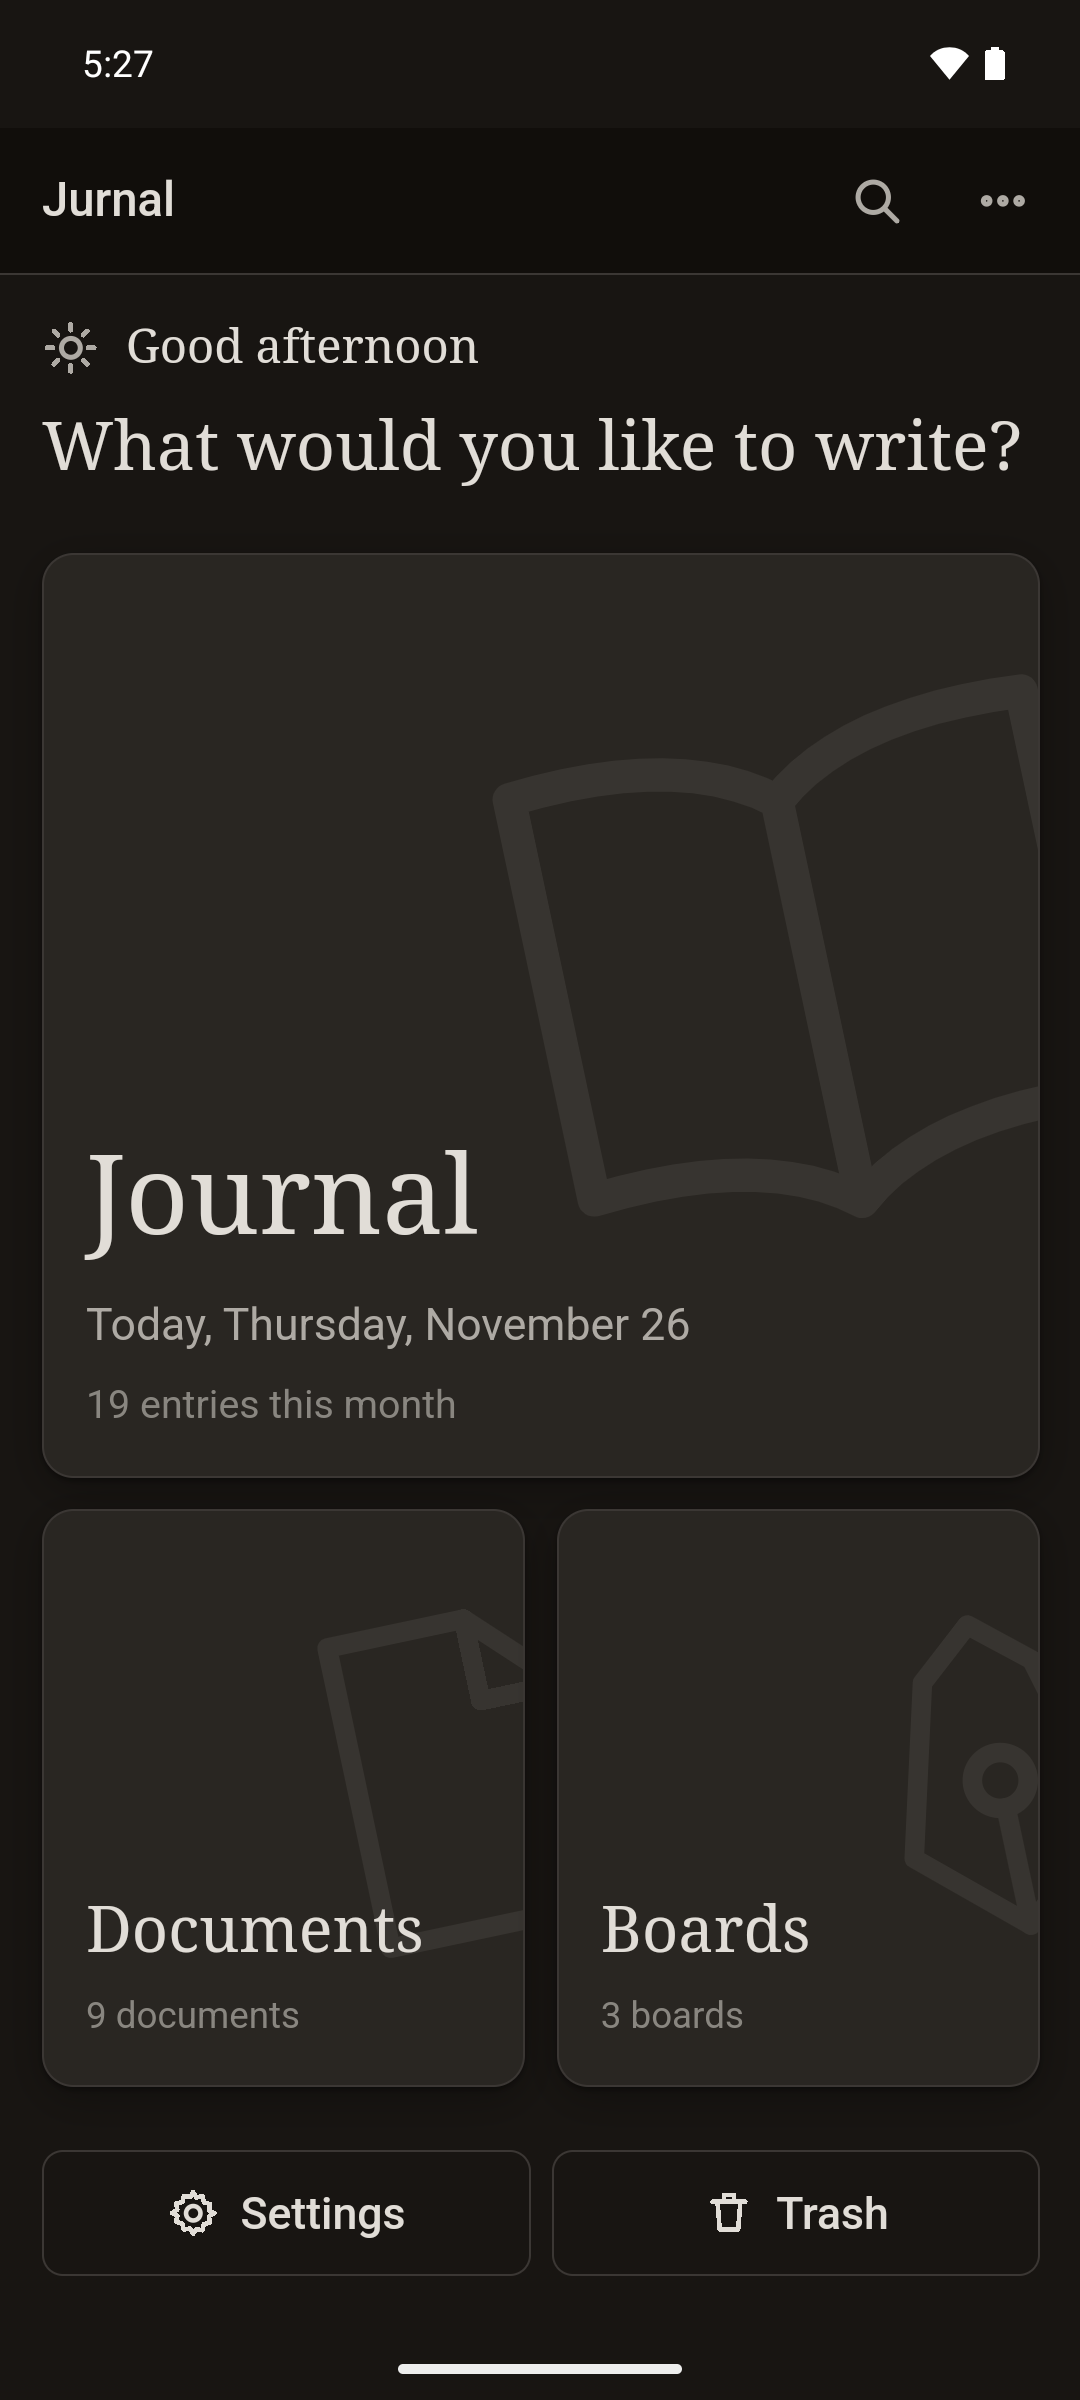
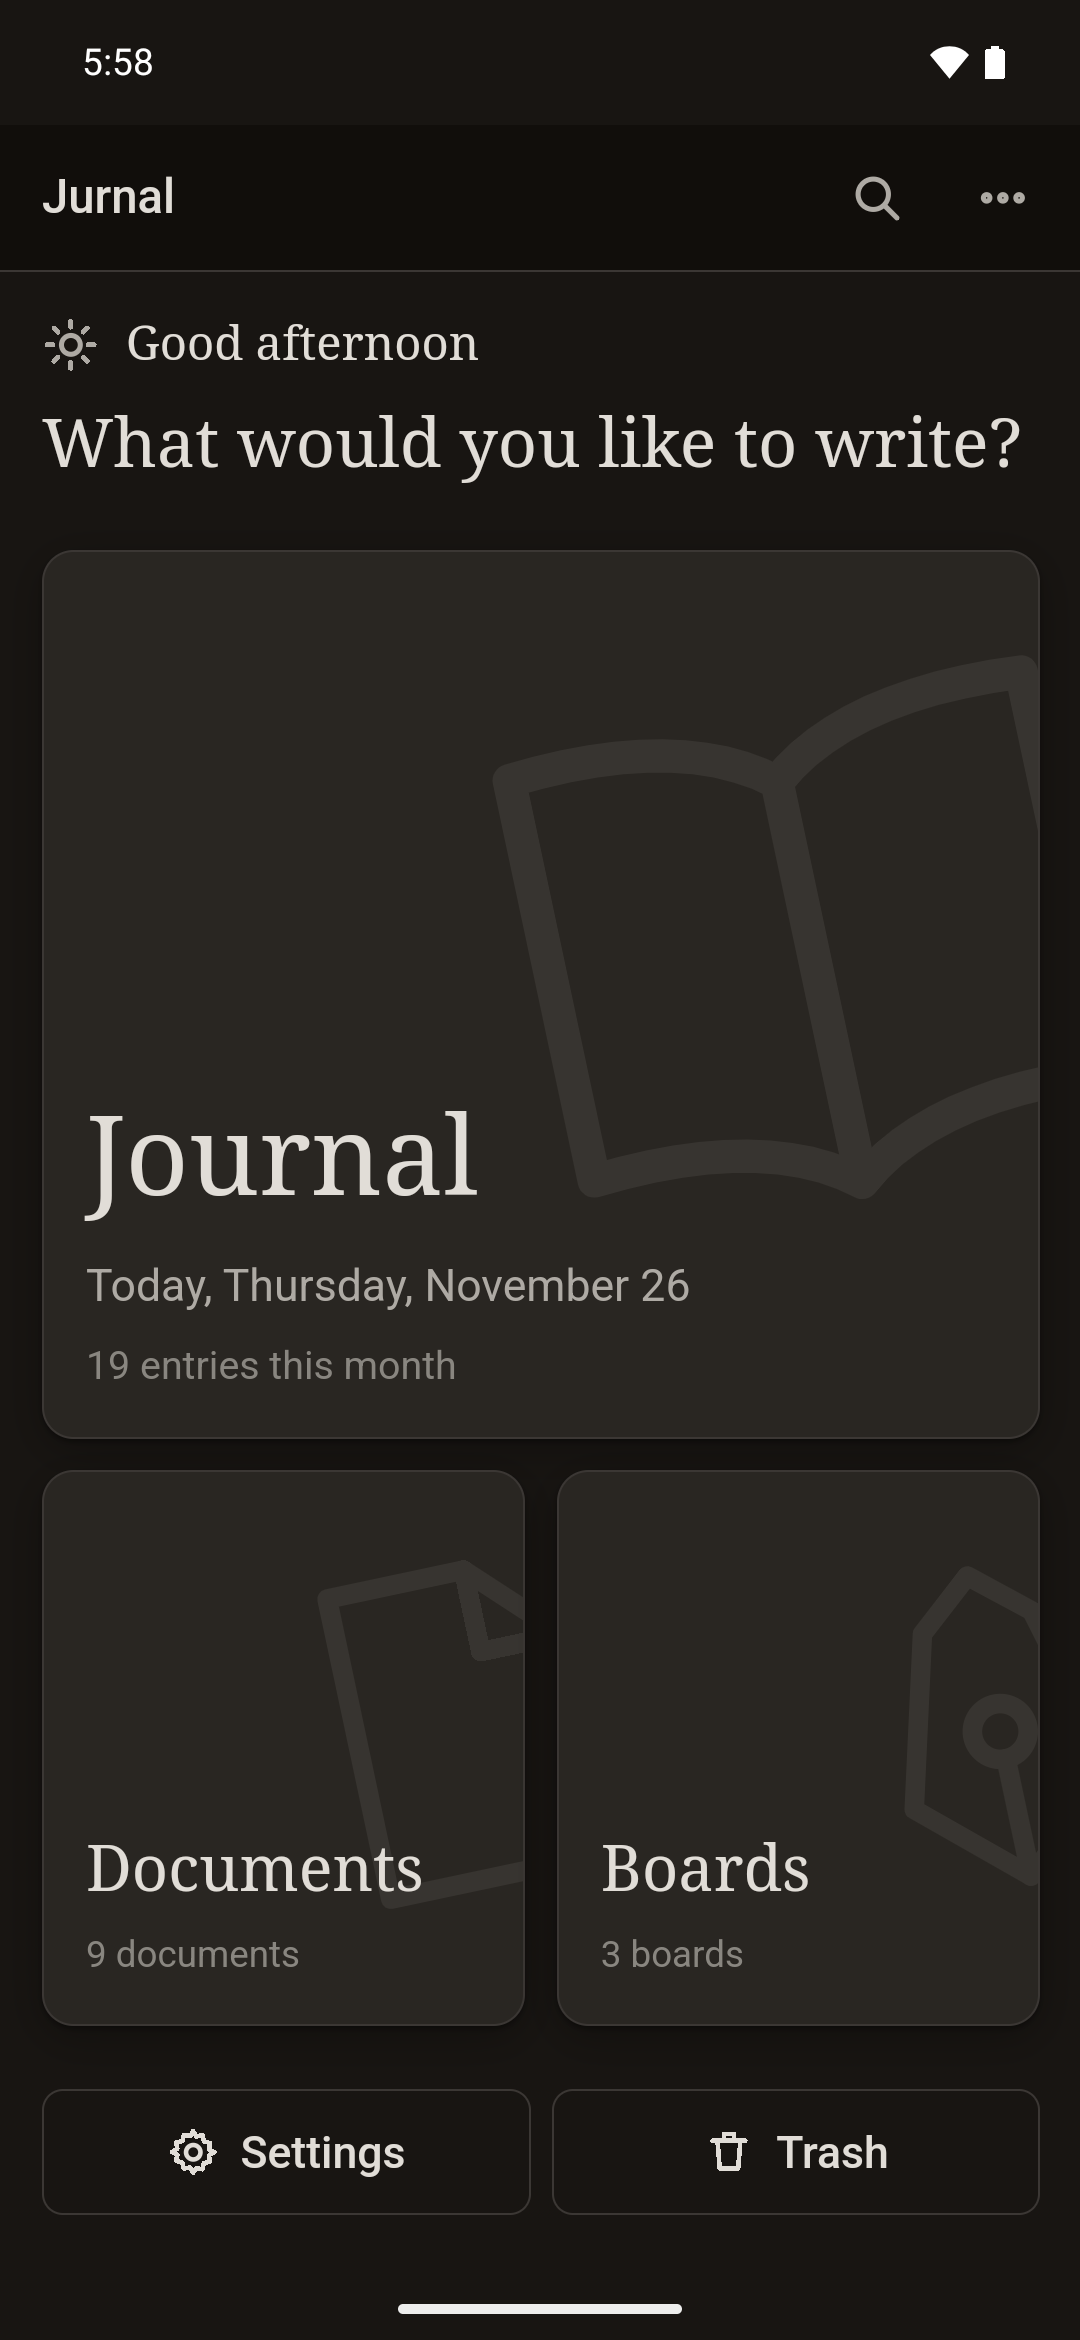
Redesign the hero phone as a large flagship frame
Bigger body with a titanium-coloured rim, side buttons and a punch-hole
camera, so it no longer blends into the desktop screenshot. Phone
screenshots recaptured at 19.5:9 and shown without cropping.

diff --git a/assets/css/style.css b/assets/css/style.css
@@ -123,17 +123,31 @@ p { margin: 0; text-wrap: pretty; }
 .hero__lead { max-width: 46ch; margin: var(--space-5) auto 0; font-size: 1.2rem; color: var(--text-muted); }
 .cta { display: flex; flex-wrap: wrap; gap: var(--space-3); justify-content: center; margin-top: var(--space-6); }
 .hero__note { margin-top: var(--space-4); font-size: 0.875rem; color: var(--text-dim); }
-.stage { position: relative; margin-top: clamp(3rem, 7vw, 5rem); }
-.stage .shot--desktop { width: min(100%, 62rem); margin-inline: auto; }
-.stage .shot--phone { position: absolute; right: 0; bottom: -2rem; width: clamp(7rem, 17vw, 12rem); }
-@media (max-width: 700px) { .stage .shot--phone { display: none; } }
+.stage { position: relative; margin-top: clamp(3rem, 7vw, 5rem); padding-bottom: var(--space-6); }
+/* Masaüstü sola yaslanır; telefon açılan boşluğa taşar, pencerenin yalnızca köşesini örter. */
+.stage .shot--desktop { width: min(100% - 9rem, 61rem); }
+.stage .shot--phone { position: absolute; right: 6px; bottom: 0; width: clamp(11rem, 23vw, 16.5rem); }
+@media (max-width: 700px) {
+  .stage { padding-bottom: 0; }
+  .stage .shot--desktop { width: 100%; }
+  .stage .shot--phone { display: none; }
+}
 
 /* ---------- Ekran görüntüsü çerçevesi ---------- */
 .shot { margin: 0; position: relative; border: 1px solid var(--border); border-radius: var(--radius-card); background: var(--surface); box-shadow: var(--shadow-lift); overflow: hidden; }
 .shot--desktop { aspect-ratio: 16 / 10; }
-.shot--phone { aspect-ratio: 9 / 19; border-radius: 22px; }
 .shot--wide { aspect-ratio: 16 / 10; }
 .shot img { position: absolute; inset: 0; width: 100%; height: 100%; object-fit: cover; object-position: top left; }
+/* Telefon (büyük "Ultra" gövde): düz titanyum kenar, ince eşit siyah çerçeve, keskin köşe,
+   sağda yan tuşlar. Orta-açık metal hem açık/koyu zeminden hem koyu masaüstü görüntüsünden
+   ayrılır. Ekran kırpılmaz; yüksekliği 19,5:9 oranı belirler. */
+.shot--phone { overflow: visible; padding: 4px; border: 4px solid oklch(0.7 0.012 75); border-radius: 10.5% / 4.9%; background: oklch(0.06 0.003 70); box-shadow: 0 0 0 1px oklch(0.46 0.012 70), inset 0 0 0 1px oklch(0.32 0.008 70), 0 32px 64px oklch(0.1 0.012 60 / 0.42), 0 10px 22px oklch(0.1 0.012 60 / 0.26); }
+.shot--phone img { position: static; display: block; height: auto; aspect-ratio: 9 / 19.5; border-radius: 7.5% / 3.5%; }
+.shot--phone:has(img.missing) { aspect-ratio: 9 / 19.5; }
+/* Ses tuşu (uzun) ve güç tuşu (kısa): aradaki saydam dilim iki ayrı parça yapar. */
+.shot--phone::before { content: ""; position: absolute; left: calc(100% + 4px); top: 19%; width: 4px; height: 22%; border-radius: 0 3px 3px 0; background: linear-gradient(oklch(0.62 0.012 75) 0 56%, transparent 56% 68%, oklch(0.62 0.012 75) 68% 100%); }
+/* Ön kamera deliği: durum çubuğunun ortasında. */
+.shot--phone::after { content: ""; position: absolute; top: calc(4px + 1.35%); left: 50%; width: 3.8%; aspect-ratio: 1; transform: translateX(-50%); border-radius: 50%; background: oklch(0.04 0 0); box-shadow: 0 0 0 1px oklch(0.28 0.008 70); }
 .shot__ph { position: absolute; inset: 0; display: grid; place-items: center; text-align: center; padding: var(--space-4); color: var(--text-dim); font: 500 0.8125rem/1.5 var(--sans); background: var(--chrome); }
 .shot img:not(.missing) ~ .shot__ph { display: none; }
 .shot img.missing { display: none; }

diff --git a/index.html b/index.html
@@ -50,7 +50,7 @@
         <div class="shot__ph">assets/screens/desktop-home.png<br>(masaüstü ana ekran, 16:10)</div>
       </figure>
       <figure class="shot shot--phone">
-        <img src="assets/screens/mobile-home.png" alt="Jurnal telefon görünümü" width="900" height="1900">
+        <img src="assets/screens/mobile-home.png" alt="Jurnal telefon görünümü" width="1080" height="2340">
         <div class="shot__ph">mobile-home.png</div>
       </figure>
     </div>

diff --git a/en/index.html b/en/index.html
@@ -50,7 +50,7 @@
         <div class="shot__ph">assets/screens/en/desktop-home.png<br>(desktop home, 16:10)</div>
       </figure>
       <figure class="shot shot--phone">
-        <img src="../assets/screens/en/mobile-home.png" alt="Jurnal on a phone" width="900" height="1900">
+        <img src="../assets/screens/en/mobile-home.png" alt="Jurnal on a phone" width="1080" height="2340">
         <div class="shot__ph">mobile-home.png</div>
       </figure>
     </div>

diff --git a/README.md b/README.md
@@ -3,6 +3,6 @@
 Statik site (HTML + CSS + küçük bir JS), derleme yok, harici istek yok.
 
 - `index.html`, `privacy.html` — Türkçe; `en/` — İngilizce
-- Ekran görüntüleri: `assets/screens/` (Türkçe) ve `assets/screens/en/` (İngilizce); adlar `desktop-home`, `desktop-editor`, `desktop-board`, `desktop-library`, `desktop-lock` (16:10), `mobile-home` (9:19), hepsi `.png`. Elle değiştirme: uygulama deposunda `npm run web:screens -- --push` hepsini yeniden çekip yayınlar.
+- Ekran görüntüleri: `assets/screens/` (Türkçe) ve `assets/screens/en/` (İngilizce); adlar `desktop-home`, `desktop-editor`, `desktop-board`, `desktop-library`, `desktop-lock` (16:10), `mobile-home` (9:19.5), hepsi `.png`. Elle değiştirme: uygulama deposunda `npm run web:screens -- --push` hepsini yeniden çekip yayınlar.
 - Google Play bağlantısı hazır olunca `index.html` ve `en/index.html` içindeki devre dışı düğmenin `href`'ini güncelle ve `aria-disabled` özniteliğini kaldır.
 - Yayın: GitHub Pages (Settings → Pages → main / root)
